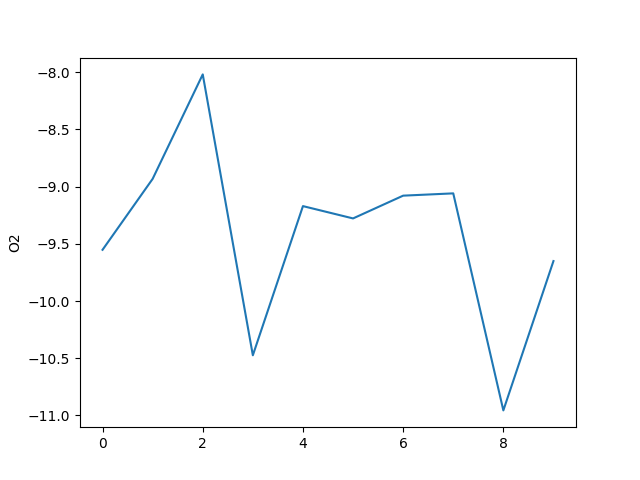
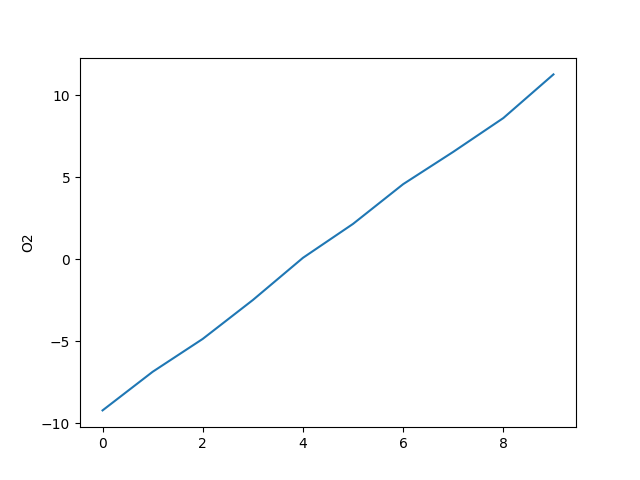
Added log for the number of x points

diff --git a/src/server_daemons/interpreter_daemon.py b/src/server_daemons/interpreter_daemon.py
@@ -734,6 +734,9 @@ class InterpreterDaemon:
                 buffered=buffered,
             )
             for meter in getters:
+                await self.log(
+                    f"[DEBUG] the number of x points for meter {meter} is {len(chunk[:, 0])}"
+                )
                 properties = self.meter_property_generation(
                     step_width=step_width,
                     number_of_samples=number_of_samples[meter],